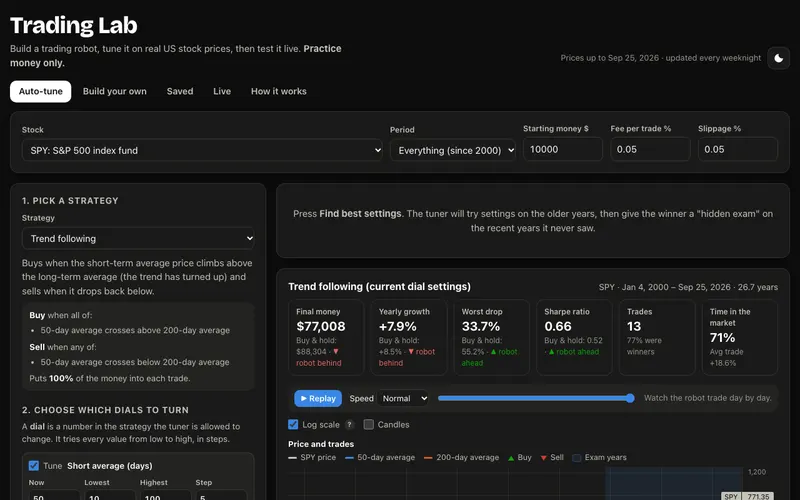
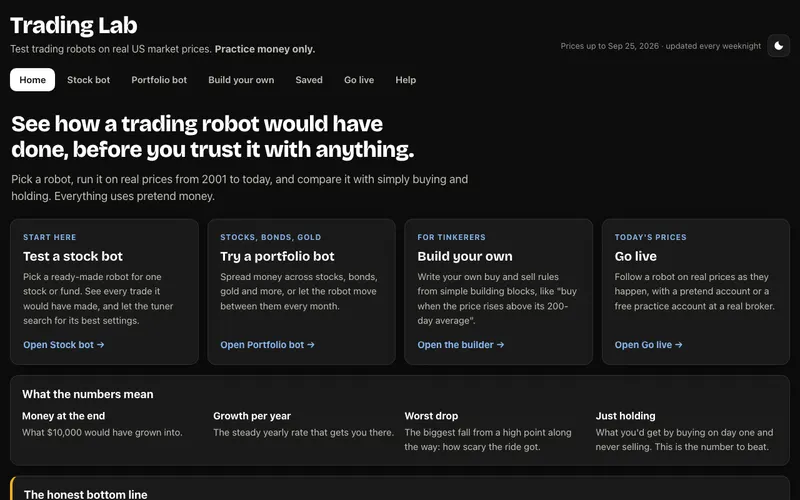
Trading Lab: new screenshot and description (portfolio bots, simpler site)

diff --git a/index.html b/index.html
@@ -179,7 +179,7 @@ main{perspective:1000px}
       <div class="body">
         <span class="kind">Latest update &middot; Tool</span>
         <h3 class="title"><a href="https://just-rice.github.io/trading-lab/">Trading Lab</a></h3>
-        <p>Build a stock-trading robot, tune it on 26 years of real US prices with a hidden exam for overfitting, then run it live on an Alpaca practice account.</p>
+        <p>Test trading robots on 25 years of real US prices, for single stocks or mixes of stocks, bonds and gold, with a fair exam against overfitting and live practice trading.</p>
         <ul class="stack"><li>Vanilla JS</li><li>GitHub Actions</li></ul>
         <p class="foot"><span class="open">Open <span class="arrow" aria-hidden="true">&rarr;</span></span><time datetime="2026-09-26">Updated Sep 2026</time><a class="code" href="https://github.com/Just-Rice/trading-lab">Code</a></p>
       </div>
